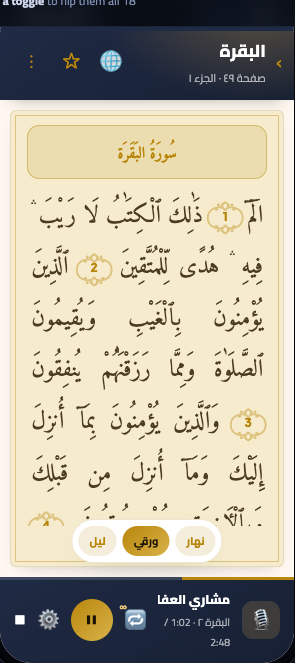
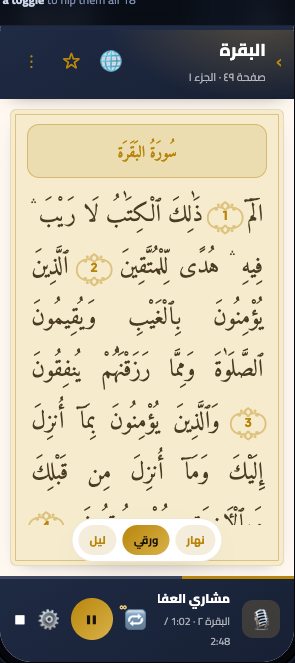
feat(mushaf): reader page shows BOTH modes (image + text) together
Merged the page-image and text/translation reader into one part (04), shown as two
adjacent frames toggled by the globe; deleted the separate 08 part. compare-ux.html
reader section now shows Current app · New UX image mode · New UX text mode side by side.

diff --git a/docs/superpowers/mockups/mushaf-retheme/index.html b/docs/superpowers/mockups/mushaf-retheme/index.html
@@ -1112,11 +1112,13 @@ h1.title .dot{width:9px;height:9px;border-radius:50%;background:var(--gold-light
         </div>
       </div></div>
     </div>
-    <!-- ============ 04 · PAGE READER — IMAGE MODE (navy chrome + paper) ============ -->
+    <!-- ============ 04 · PAGE READER — TWO MODES (image + text, globe toggles) ============ -->
+
+    <!-- ---- 04a · IMAGE MODE (printed madani page + navy chrome + paper) ---- -->
     <div class="phone-col">
       <div class="phone-cap">
         <div class="n" data-en="Page Reader · image mode" data-ar="قارئ الصفحة · وضع الصورة"></div>
-        <div class="d" data-en="PagerActivity — printed madani page image; globe 🌐 → text mode (08). Tap page = toggle chrome." data-ar="PagerActivity — صورة صفحة المصحف المطبوعة؛ الكرة الأرضية 🌐 ← وضع النص (٠٨). نقرة = إظهار/إخفاء الإطار"></div>
+        <div class="d" data-en="PagerActivity — printed madani page image. Globe 🌐 switches to text mode (→). Tap page = toggle chrome." data-ar="PagerActivity — صورة صفحة المصحف المطبوعة. الكرة الأرضية 🌐 تبدّل إلى وضع النص (←). نقرة = إظهار/إخفاء الإطار"></div>
       </div>
       <div class="phone"><div class="notch"></div><div class="screen">
         <div class="sb on-navy"><span>9:41</span><span class="r"><span>5G</span><span class="sb-dots"></span><span>100</span></span></div>
@@ -1127,7 +1129,7 @@ h1.title .dot{width:9px;height:9px;border-radius:50%;background:var(--gold-light
               <div class="t"><span class="ar">البقرة</span></div>
               <div class="s"><span data-en="Page 49 · Juz' 1" data-ar="صفحة ٤٩ · الجزء ١"></span></div>
             </div>
-            <div class="acts"><span class="ico" title="Show translation">🌐</span><span class="ico" title="Bookmark">☆</span><span class="ico">⋮</span></div>
+            <div class="acts"><span class="ico" title="Show translation (text mode)">🌐</span><span class="ico" title="Bookmark">☆</span><span class="ico">⋮</span></div>
           </div>
         </div>
 
@@ -1163,6 +1165,76 @@ h1.title .dot{width:9px;height:9px;border-radius:50%;background:var(--gold-light
           <span class="play">⏸</span>
           <span class="ctl" title="Audio settings">⚙</span>
           <span class="ctl" title="Stop">⏹</span>
+        </div>
+      </div></div>
+    </div>
+
+    <!-- ---- 04b · TEXT MODE (same page, translation/tafsir view) ---- -->
+    <div class="phone-col">
+      <div class="phone-cap">
+        <div class="n" data-en="Page Reader · text mode" data-ar="قارئ الصفحة · وضع النص"></div>
+        <div class="d" data-en="Same page — globe 🌐 toggles back to the page image (→). Multiple translations stack." data-ar="نفس الصفحة — الكرة الأرضية 🌐 تعيد إلى صورة الصفحة (←). تتراكم عدة ترجمات"></div>
+      </div>
+      <div class="phone"><div class="notch"></div><div class="screen">
+        <div class="sb on-navy"><span>9:41</span><span class="r"><span>5G</span><span class="sb-dots"></span><span>100</span></span></div>
+        <div class="bar">
+          <div class="nav">
+            <span class="bk">‹</span>
+            <div class="ttl">
+              <div class="t"><span class="ar">البقرة</span></div>
+              <div class="s"><span data-en="Page 49 · Juz' 1" data-ar="صفحة ٤٩ · الجزء ١"></span></div>
+            </div>
+            <div class="acts"><span class="ico" title="Show Quran page (image mode)">🌐</span><span class="ico" title="Bookmark">☆</span><span class="ico">🔍</span><span class="ico">⋮</span></div>
+          </div>
+        </div>
+
+        <!-- translation-source selector (multi-select → Translation Manager) + font size -->
+        <div class="between" style="padding:9px 12px;border-bottom:1px solid var(--line-soft)">
+          <div class="chip outline" style="gap:7px"><span>📚</span><span data-en="Saheeh Intl  +1" data-ar="صحيح إنترناشونال  +١"></span><span style="opacity:.7">▾</span></div>
+          <span style="display:flex;align-items:center;gap:12px">
+            <span style="font-size:12px;font-weight:800;color:var(--text2)">A−</span>
+            <span style="font-size:16px;font-weight:800;color:var(--gold)">A+</span>
+          </span>
+        </div>
+
+        <div class="body"><div class="scroll" style="padding:6px 14px 18px">
+          <div class="surah-band" style="margin:10px 0 6px">سُورَةُ البَقَرَة</div>
+          <div style="text-align:center;font-family:'Amiri',serif;font-size:19px;color:var(--gold);padding:4px 0 10px">بِسۡمِ ٱللَّهِ ٱلرَّحۡمَٰنِ ٱلرَّحِيمِ</div>
+
+          <!-- ayah 1 -->
+          <div style="padding:10px 0;border-top:1px solid var(--line-soft)">
+            <div style="font-family:'Amiri',serif;font-size:21px;line-height:1.9;text-align:justify;color:var(--text)" dir="rtl">الٓمٓ <span class="mk">1</span></div>
+            <div style="font-size:10px;font-weight:800;letter-spacing:.07em;text-transform:uppercase;color:var(--gold);margin:8px 0 3px" data-en="Saheeh International" data-ar="صحيح إنترناشونال"></div>
+            <div style="font-size:13px;line-height:1.55;color:var(--text2)" data-en="Alif, Lam, Meem." data-ar="الم (حروف مقطّعة)"></div>
+          </div>
+
+          <!-- ayah 2 — selected (gold-faint highlight) + TWO stacked translations -->
+          <div style="padding:10px;border-radius:12px;background:var(--gold-faint)">
+            <div style="font-family:'Amiri',serif;font-size:21px;line-height:1.9;text-align:justify;color:var(--text)" dir="rtl">ذَٰلِكَ ٱلْكِتَٰبُ لَا رَيْبَ ۛ فِيهِ ۛ هُدًى لِّلْمُتَّقِينَ <span class="mk">2</span></div>
+            <div style="font-size:10px;font-weight:800;letter-spacing:.07em;text-transform:uppercase;color:var(--gold);margin:8px 0 3px" data-en="Saheeh International" data-ar="صحيح إنترناشونال"></div>
+            <div style="font-size:13px;line-height:1.55;color:var(--text2)" data-en="This is the Book about which there is no doubt, a guidance for those conscious of Allah." data-ar="هذا القرآن لا شكَّ أنه من عند الله، هدايةٌ للمتقين."></div>
+            <div style="font-size:10px;font-weight:800;letter-spacing:.07em;text-transform:uppercase;color:var(--gold);margin:11px 0 3px" data-en="Tafsir al-Muyassar" data-ar="التفسير الميسّر"></div>
+            <div style="font-size:13px;line-height:1.7;color:var(--text2)" dir="rtl">ذلك القرآن العظيم هو الكتاب الذي لا شكَّ فيه أنه من عند الله… <a class="txtlink" data-en="more…" data-ar="المزيد…"></a></div>
+          </div>
+
+          <!-- ayah 3 -->
+          <div style="padding:10px 0;border-top:1px solid var(--line-soft)">
+            <div style="font-family:'Amiri',serif;font-size:21px;line-height:1.9;text-align:justify;color:var(--text)" dir="rtl">ٱلَّذِينَ يُؤْمِنُونَ بِٱلْغَيْبِ وَيُقِيمُونَ ٱلصَّلَوٰةَ <span class="mk">3</span></div>
+            <div style="font-size:10px;font-weight:800;letter-spacing:.07em;text-transform:uppercase;color:var(--gold);margin:8px 0 3px" data-en="Saheeh International" data-ar="صحيح إنترناشونال"></div>
+            <div style="font-size:13px;line-height:1.55;color:var(--text2)" data-en="Who believe in the unseen, establish prayer…" data-ar="الذين يصدِّقون بالغيب ويؤدُّون الصلاة…"></div>
+          </div>
+        </div></div>
+
+        <div class="audiobar">
+          <div class="aprog"><i style="width:38%"></i></div>
+          <span class="av">🎙</span>
+          <div class="meta">
+            <div class="t"><span data-en="Mishary Alafasy" data-ar="مشاري العفاسي"></span></div>
+            <div class="s"><span class="ar">البقرة ٢</span> · <span>1:02 / 2:48</span></div>
+          </div>
+          <span class="ctl">⏮</span>
+          <span class="play">⏸</span>
+          <span class="ctl fwd">⏭</span>
         </div>
       </div></div>
     </div>
@@ -1572,75 +1644,6 @@ h1.title .dot{width:9px;height:9px;border-radius:50%;background:var(--gold-light
             </div>
             <span style="position:absolute;left:50%;bottom:-7px;transform:translateX(-50%);width:0;height:0;border-left:7px solid transparent;border-right:7px solid transparent;border-top:8px solid var(--navy-700)"></span>
           </div>
-        </div>
-      </div></div>
-    </div>
-    <!-- ============ 08 · READER — TEXT MODE (translation/tafsir view) ============ -->
-    <div class="phone-col">
-      <div class="phone-cap">
-        <div class="n" data-en="Page Reader · text mode" data-ar="قارئ الصفحة · وضع النص"></div>
-        <div class="d" data-en="Same page as 04 — globe 🌐 toggles back to the page image. Multiple translations stack." data-ar="نفس صفحة ٠٤ — الكرة الأرضية 🌐 تعيد لصورة الصفحة. تتراكم عدة ترجمات"></div>
-      </div>
-      <div class="phone"><div class="notch"></div><div class="screen">
-        <div class="sb on-navy"><span>9:41</span><span class="r"><span>5G</span><span class="sb-dots"></span><span>100</span></span></div>
-        <div class="bar">
-          <div class="nav">
-            <span class="bk">‹</span>
-            <div class="ttl">
-              <div class="t"><span class="ar">البقرة</span></div>
-              <div class="s"><span data-en="Page 49 · Juz' 1" data-ar="صفحة ٤٩ · الجزء ١"></span></div>
-            </div>
-            <div class="acts"><span class="ico" title="Show Quran page">🌐</span><span class="ico" title="Bookmark">☆</span><span class="ico">🔍</span><span class="ico">⋮</span></div>
-          </div>
-        </div>
-
-        <!-- translation-source selector (multi-select → Translation Manager) + font size -->
-        <div class="between" style="padding:9px 12px;border-bottom:1px solid var(--line-soft)">
-          <div class="chip outline" style="gap:7px"><span>📚</span><span data-en="Saheeh Intl  +1" data-ar="صحيح إنترناشونال  +١"></span><span style="opacity:.7">▾</span></div>
-          <span style="display:flex;align-items:center;gap:12px">
-            <span style="font-size:12px;font-weight:800;color:var(--text2)">A−</span>
-            <span style="font-size:16px;font-weight:800;color:var(--gold)">A+</span>
-          </span>
-        </div>
-
-        <div class="body"><div class="scroll" style="padding:6px 14px 18px">
-          <div class="surah-band" style="margin:10px 0 6px">سُورَةُ البَقَرَة</div>
-          <div style="text-align:center;font-family:'Amiri',serif;font-size:19px;color:var(--gold);padding:4px 0 10px">بِسۡمِ ٱللَّهِ ٱلرَّحۡمَٰنِ ٱلرَّحِيمِ</div>
-
-          <!-- ayah 1 -->
-          <div style="padding:10px 0;border-top:1px solid var(--line-soft)">
-            <div style="font-family:'Amiri',serif;font-size:21px;line-height:1.9;text-align:justify;color:var(--text)" dir="rtl">الٓمٓ <span class="mk">1</span></div>
-            <div style="font-size:10px;font-weight:800;letter-spacing:.07em;text-transform:uppercase;color:var(--gold);margin:8px 0 3px" data-en="Saheeh International" data-ar="صحيح إنترناشونال"></div>
-            <div style="font-size:13px;line-height:1.55;color:var(--text2)" data-en="Alif, Lam, Meem." data-ar="الم (حروف مقطّعة)"></div>
-          </div>
-
-          <!-- ayah 2 — selected (gold-faint highlight) + TWO stacked translations -->
-          <div style="padding:10px;border-radius:12px;background:var(--gold-faint)">
-            <div style="font-family:'Amiri',serif;font-size:21px;line-height:1.9;text-align:justify;color:var(--text)" dir="rtl">ذَٰلِكَ ٱلْكِتَٰبُ لَا رَيْبَ ۛ فِيهِ ۛ هُدًى لِّلْمُتَّقِينَ <span class="mk">2</span></div>
-            <div style="font-size:10px;font-weight:800;letter-spacing:.07em;text-transform:uppercase;color:var(--gold);margin:8px 0 3px" data-en="Saheeh International" data-ar="صحيح إنترناشونال"></div>
-            <div style="font-size:13px;line-height:1.55;color:var(--text2)" data-en="This is the Book about which there is no doubt, a guidance for those conscious of Allah." data-ar="هذا القرآن لا شكَّ أنه من عند الله، هدايةٌ للمتقين."></div>
-            <div style="font-size:10px;font-weight:800;letter-spacing:.07em;text-transform:uppercase;color:var(--gold);margin:11px 0 3px" data-en="Tafsir al-Muyassar" data-ar="التفسير الميسّر"></div>
-            <div style="font-size:13px;line-height:1.7;color:var(--text2)" dir="rtl">ذلك القرآن العظيم هو الكتاب الذي لا شكَّ فيه أنه من عند الله… <a class="txtlink" data-en="more…" data-ar="المزيد…"></a></div>
-          </div>
-
-          <!-- ayah 3 -->
-          <div style="padding:10px 0;border-top:1px solid var(--line-soft)">
-            <div style="font-family:'Amiri',serif;font-size:21px;line-height:1.9;text-align:justify;color:var(--text)" dir="rtl">ٱلَّذِينَ يُؤْمِنُونَ بِٱلْغَيْبِ وَيُقِيمُونَ ٱلصَّلَوٰةَ <span class="mk">3</span></div>
-            <div style="font-size:10px;font-weight:800;letter-spacing:.07em;text-transform:uppercase;color:var(--gold);margin:8px 0 3px" data-en="Saheeh International" data-ar="صحيح إنترناشونال"></div>
-            <div style="font-size:13px;line-height:1.55;color:var(--text2)" data-en="Who believe in the unseen, establish prayer…" data-ar="الذين يصدِّقون بالغيب ويؤدُّون الصلاة…"></div>
-          </div>
-        </div></div>
-
-        <div class="audiobar">
-          <div class="aprog"><i style="width:38%"></i></div>
-          <span class="av">🎙</span>
-          <div class="meta">
-            <div class="t"><span data-en="Mishary Alafasy" data-ar="مشاري العفاسي"></span></div>
-            <div class="s"><span class="ar">البقرة ٢</span> · <span>1:02 / 2:48</span></div>
-          </div>
-          <span class="ctl">⏮</span>
-          <span class="play">⏸</span>
-          <span class="ctl fwd">⏭</span>
         </div>
       </div></div>
     </div>

diff --git a/docs/superpowers/mockups/mushaf-retheme/parts/04-reader.html b/docs/superpowers/mockups/mushaf-retheme/parts/04-reader.html
@@ -1,8 +1,10 @@
-    <!-- ============ 04 · PAGE READER — IMAGE MODE (navy chrome + paper) ============ -->
+    <!-- ============ 04 · PAGE READER — TWO MODES (image + text, globe toggles) ============ -->
+
+    <!-- ---- 04a · IMAGE MODE (printed madani page + navy chrome + paper) ---- -->
     <div class="phone-col">
       <div class="phone-cap">
         <div class="n" data-en="Page Reader · image mode" data-ar="قارئ الصفحة · وضع الصورة"></div>
-        <div class="d" data-en="PagerActivity — printed madani page image; globe 🌐 → text mode (08). Tap page = toggle chrome." data-ar="PagerActivity — صورة صفحة المصحف المطبوعة؛ الكرة الأرضية 🌐 ← وضع النص (٠٨). نقرة = إظهار/إخفاء الإطار"></div>
+        <div class="d" data-en="PagerActivity — printed madani page image. Globe 🌐 switches to text mode (→). Tap page = toggle chrome." data-ar="PagerActivity — صورة صفحة المصحف المطبوعة. الكرة الأرضية 🌐 تبدّل إلى وضع النص (←). نقرة = إظهار/إخفاء الإطار"></div>
       </div>
       <div class="phone"><div class="notch"></div><div class="screen">
         <div class="sb on-navy"><span>9:41</span><span class="r"><span>5G</span><span class="sb-dots"></span><span>100</span></span></div>
@@ -13,7 +15,7 @@
               <div class="t"><span class="ar">البقرة</span></div>
               <div class="s"><span data-en="Page 49 · Juz' 1" data-ar="صفحة ٤٩ · الجزء ١"></span></div>
             </div>
-            <div class="acts"><span class="ico" title="Show translation">🌐</span><span class="ico" title="Bookmark">☆</span><span class="ico">⋮</span></div>
+            <div class="acts"><span class="ico" title="Show translation (text mode)">🌐</span><span class="ico" title="Bookmark">☆</span><span class="ico">⋮</span></div>
           </div>
         </div>
 
@@ -49,6 +51,76 @@
           <span class="play">⏸</span>
           <span class="ctl" title="Audio settings">⚙</span>
           <span class="ctl" title="Stop">⏹</span>
+        </div>
+      </div></div>
+    </div>
+
+    <!-- ---- 04b · TEXT MODE (same page, translation/tafsir view) ---- -->
+    <div class="phone-col">
+      <div class="phone-cap">
+        <div class="n" data-en="Page Reader · text mode" data-ar="قارئ الصفحة · وضع النص"></div>
+        <div class="d" data-en="Same page — globe 🌐 toggles back to the page image (→). Multiple translations stack." data-ar="نفس الصفحة — الكرة الأرضية 🌐 تعيد إلى صورة الصفحة (←). تتراكم عدة ترجمات"></div>
+      </div>
+      <div class="phone"><div class="notch"></div><div class="screen">
+        <div class="sb on-navy"><span>9:41</span><span class="r"><span>5G</span><span class="sb-dots"></span><span>100</span></span></div>
+        <div class="bar">
+          <div class="nav">
+            <span class="bk">‹</span>
+            <div class="ttl">
+              <div class="t"><span class="ar">البقرة</span></div>
+              <div class="s"><span data-en="Page 49 · Juz' 1" data-ar="صفحة ٤٩ · الجزء ١"></span></div>
+            </div>
+            <div class="acts"><span class="ico" title="Show Quran page (image mode)">🌐</span><span class="ico" title="Bookmark">☆</span><span class="ico">🔍</span><span class="ico">⋮</span></div>
+          </div>
+        </div>
+
+        <!-- translation-source selector (multi-select → Translation Manager) + font size -->
+        <div class="between" style="padding:9px 12px;border-bottom:1px solid var(--line-soft)">
+          <div class="chip outline" style="gap:7px"><span>📚</span><span data-en="Saheeh Intl  +1" data-ar="صحيح إنترناشونال  +١"></span><span style="opacity:.7">▾</span></div>
+          <span style="display:flex;align-items:center;gap:12px">
+            <span style="font-size:12px;font-weight:800;color:var(--text2)">A−</span>
+            <span style="font-size:16px;font-weight:800;color:var(--gold)">A+</span>
+          </span>
+        </div>
+
+        <div class="body"><div class="scroll" style="padding:6px 14px 18px">
+          <div class="surah-band" style="margin:10px 0 6px">سُورَةُ البَقَرَة</div>
+          <div style="text-align:center;font-family:'Amiri',serif;font-size:19px;color:var(--gold);padding:4px 0 10px">بِسۡمِ ٱللَّهِ ٱلرَّحۡمَٰنِ ٱلرَّحِيمِ</div>
+
+          <!-- ayah 1 -->
+          <div style="padding:10px 0;border-top:1px solid var(--line-soft)">
+            <div style="font-family:'Amiri',serif;font-size:21px;line-height:1.9;text-align:justify;color:var(--text)" dir="rtl">الٓمٓ <span class="mk">1</span></div>
+            <div style="font-size:10px;font-weight:800;letter-spacing:.07em;text-transform:uppercase;color:var(--gold);margin:8px 0 3px" data-en="Saheeh International" data-ar="صحيح إنترناشونال"></div>
+            <div style="font-size:13px;line-height:1.55;color:var(--text2)" data-en="Alif, Lam, Meem." data-ar="الم (حروف مقطّعة)"></div>
+          </div>
+
+          <!-- ayah 2 — selected (gold-faint highlight) + TWO stacked translations -->
+          <div style="padding:10px;border-radius:12px;background:var(--gold-faint)">
+            <div style="font-family:'Amiri',serif;font-size:21px;line-height:1.9;text-align:justify;color:var(--text)" dir="rtl">ذَٰلِكَ ٱلْكِتَٰبُ لَا رَيْبَ ۛ فِيهِ ۛ هُدًى لِّلْمُتَّقِينَ <span class="mk">2</span></div>
+            <div style="font-size:10px;font-weight:800;letter-spacing:.07em;text-transform:uppercase;color:var(--gold);margin:8px 0 3px" data-en="Saheeh International" data-ar="صحيح إنترناشونال"></div>
+            <div style="font-size:13px;line-height:1.55;color:var(--text2)" data-en="This is the Book about which there is no doubt, a guidance for those conscious of Allah." data-ar="هذا القرآن لا شكَّ أنه من عند الله، هدايةٌ للمتقين."></div>
+            <div style="font-size:10px;font-weight:800;letter-spacing:.07em;text-transform:uppercase;color:var(--gold);margin:11px 0 3px" data-en="Tafsir al-Muyassar" data-ar="التفسير الميسّر"></div>
+            <div style="font-size:13px;line-height:1.7;color:var(--text2)" dir="rtl">ذلك القرآن العظيم هو الكتاب الذي لا شكَّ فيه أنه من عند الله… <a class="txtlink" data-en="more…" data-ar="المزيد…"></a></div>
+          </div>
+
+          <!-- ayah 3 -->
+          <div style="padding:10px 0;border-top:1px solid var(--line-soft)">
+            <div style="font-family:'Amiri',serif;font-size:21px;line-height:1.9;text-align:justify;color:var(--text)" dir="rtl">ٱلَّذِينَ يُؤْمِنُونَ بِٱلْغَيْبِ وَيُقِيمُونَ ٱلصَّلَوٰةَ <span class="mk">3</span></div>
+            <div style="font-size:10px;font-weight:800;letter-spacing:.07em;text-transform:uppercase;color:var(--gold);margin:8px 0 3px" data-en="Saheeh International" data-ar="صحيح إنترناشونال"></div>
+            <div style="font-size:13px;line-height:1.55;color:var(--text2)" data-en="Who believe in the unseen, establish prayer…" data-ar="الذين يصدِّقون بالغيب ويؤدُّون الصلاة…"></div>
+          </div>
+        </div></div>
+
+        <div class="audiobar">
+          <div class="aprog"><i style="width:38%"></i></div>
+          <span class="av">🎙</span>
+          <div class="meta">
+            <div class="t"><span data-en="Mishary Alafasy" data-ar="مشاري العفاسي"></span></div>
+            <div class="s"><span class="ar">البقرة ٢</span> · <span>1:02 / 2:48</span></div>
+          </div>
+          <span class="ctl">⏮</span>
+          <span class="play">⏸</span>
+          <span class="ctl fwd">⏭</span>
         </div>
       </div></div>
     </div>

diff --git a/docs/superpowers/mockups/mushaf-retheme/compare-ux.html b/docs/superpowers/mockups/mushaf-retheme/compare-ux.html
@@ -80,21 +80,12 @@
     </div>
   </section><div class="grp">Reader &amp; ayah panels</div>
   <section>
-    <div class="shead"><h2><span class="n">04</span> Reader — page image mode</h2><span class="fid new">Feature-complete redesign</span></div>
+    <div class="shead"><h2><span class="n">04</span> Reader — both modes (image + text)</h2><span class="fid new">Feature-complete redesign</span></div>
     <div class="pair">
       <figure><figcaption class="cur">Current app</figcaption><div class="shot"><img loading="lazy" src="compare-shots/asbuilt/ab-reader-chrome.png" alt="current 04-reader"></div></figure>
       <div class="arrow">→</div>
-      <figure><figcaption class="ux">New UX</figcaption><div class="shot"><img loading="lazy" src="compare-shots/ux/ux-03-reader.png" alt="new ux 04-reader"></div></figure>
+      <figure style="width:212px"><figcaption class="ux">New UX · Image mode</figcaption><div class="shot" style="width:212px"><img loading="lazy" src="compare-shots/ux/ux-03-reader.png" alt="new ux Image mode"></div></figure><figure style="width:212px"><figcaption class="ux">New UX · Text mode</figcaption><div class="shot" style="width:212px"><img loading="lazy" src="compare-shots/ux/ux-07-translation-page.png" alt="new ux Text mode"></div></figure>
       <div class="notes"><div class="nb match"><h4>✓ Revived in the new UX</h4><ul><li>The Show Translation / Show Quran toggle (globe, ic_translation) — and the entire translation text view, which is the reader&#x27;s second view mode.</li><li>The Search action and its collapsible SearchView.</li><li>The overflow (⋮) menu contents: Jump/Go-to-page (انتقال سريع), Focus mode (وضع التركيز), Settings (الإعدادات), Help (مساعدة) — and Show Quran (إلى التلاوة) when in translation mode.</li><li>The translation-mode Sura/Juz jump spinner that replaces the title.</li><li>The ayah long-press contextual toolbar entirely: Bookmark ayah, Tag ayah, Share (link/text/Copy), Translation, Play from here, Recite from here.</li><li>Audio bar: the Qari/reciter selection spinner (stopped mode), the Stop button, the Repeat button + repeat-count cycling (1/2/3/∞), the Audio-settings gear, the Cancel (X), and the entire DOWNLOADING/LOADING state (which is what the as-built screenshot shows), the download-over-mobile-data prompt state, and the recitation (mic/transcript/hide-page/end-session) mode.</li></ul></div><div class="nb diff"><h4>✕ Removed (mockup had invented these)</h4><ul><li>A reciter name text label in the audio bar (&#x27;Mishary Alafasy&#x27; / &#x27;مشاري العفاسي&#x27;) — the real bar has no name label; the reciter is chosen via a dropdown spinner.</li><li>An elapsed/total time readout (&#x27;1:02 / 2:48&#x27;) — no such time text exists in AudioStatusBar.</li><li>An audio progress/waveform scrubber bar (aprog) in the playing state — the real progress bar appears only in the DOWNLOADING/LOADING state, not as a playback scrubber.</li><li>A mic-avatar &#x27;now playing&#x27; thumbnail (🎙) in the audio bar — not present in the real control strip.</li></ul></div></div>
-    </div>
-  </section>
-  <section>
-    <div class="shead"><h2><span class="n">08</span> Reader — text mode</h2><span class="fid new">Feature-complete redesign</span></div>
-    <div class="pair">
-      <figure><figcaption class="cur">Current app</figcaption><div class="shot"><img loading="lazy" src="compare-shots/asbuilt/ab-translation-page.png" alt="current 08-translation-page"></div></figure>
-      <div class="arrow">→</div>
-      <figure><figcaption class="ux">New UX</figcaption><div class="shot"><img loading="lazy" src="compare-shots/ux/ux-07-translation-page.png" alt="new ux 08-translation-page"></div></figure>
-      <div class="notes"><div class="nb match"><h4>✓ Revived in the new UX</h4><ul><li>Sura-header band row (centered sura name on a cream/navy band) — mockup jumps straight to ayahs with no sura header.</li><li>Basmallah row before ayah 1 of a sura (mockup&#x27;s first row is Al-Baqarah ayah 1 &#x27;الٓمٓ&#x27; with no basmallah line shown).</li><li>&#x27;Back to page&#x27; (goto_quran) toggle and any indication that this content also has an Arabic PAGE-IMAGE mode (the app has BOTH image and text modes for the same page).</li><li>Multi-select translation chooser (the spinner dropdown with checkmarks for multiple downloaded translations/tafaseer) — mockup shows a single fixed &#x27;Saheeh International&#x27;.</li><li>Multiple simultaneous translations, each with its own bold ALL-CAPS gold TRANSLATOR header.</li><li>Long-tafseer &#x27;المزيد…&#x27; truncate/expand link.</li></ul></div><div class="nb diff"><h4>✕ Removed (mockup had invented these)</h4><ul><li>The standalone centered &#x27;Saheeh International&#x27; outlined chip below the header — no such single-translation chip exists in the real text mode.</li><li>Implicitly framing the screen as text-only with no awareness that the same page also has an Arabic page-image mode AND a separate slide-up ayah translation panel (the surface the screenshot actually shows).</li><li>(Verification, not an invention to keep) menu_view_mode.xml&#x27;s List/Grid/Compact toggle belongs to the reciter/audio surah lists (RecitesName/AyaList), NOT this screen; the mockup correctly omits it — do NOT add a view-mode switcher here.</li></ul></div></div>
     </div>
   </section>
   <section>
